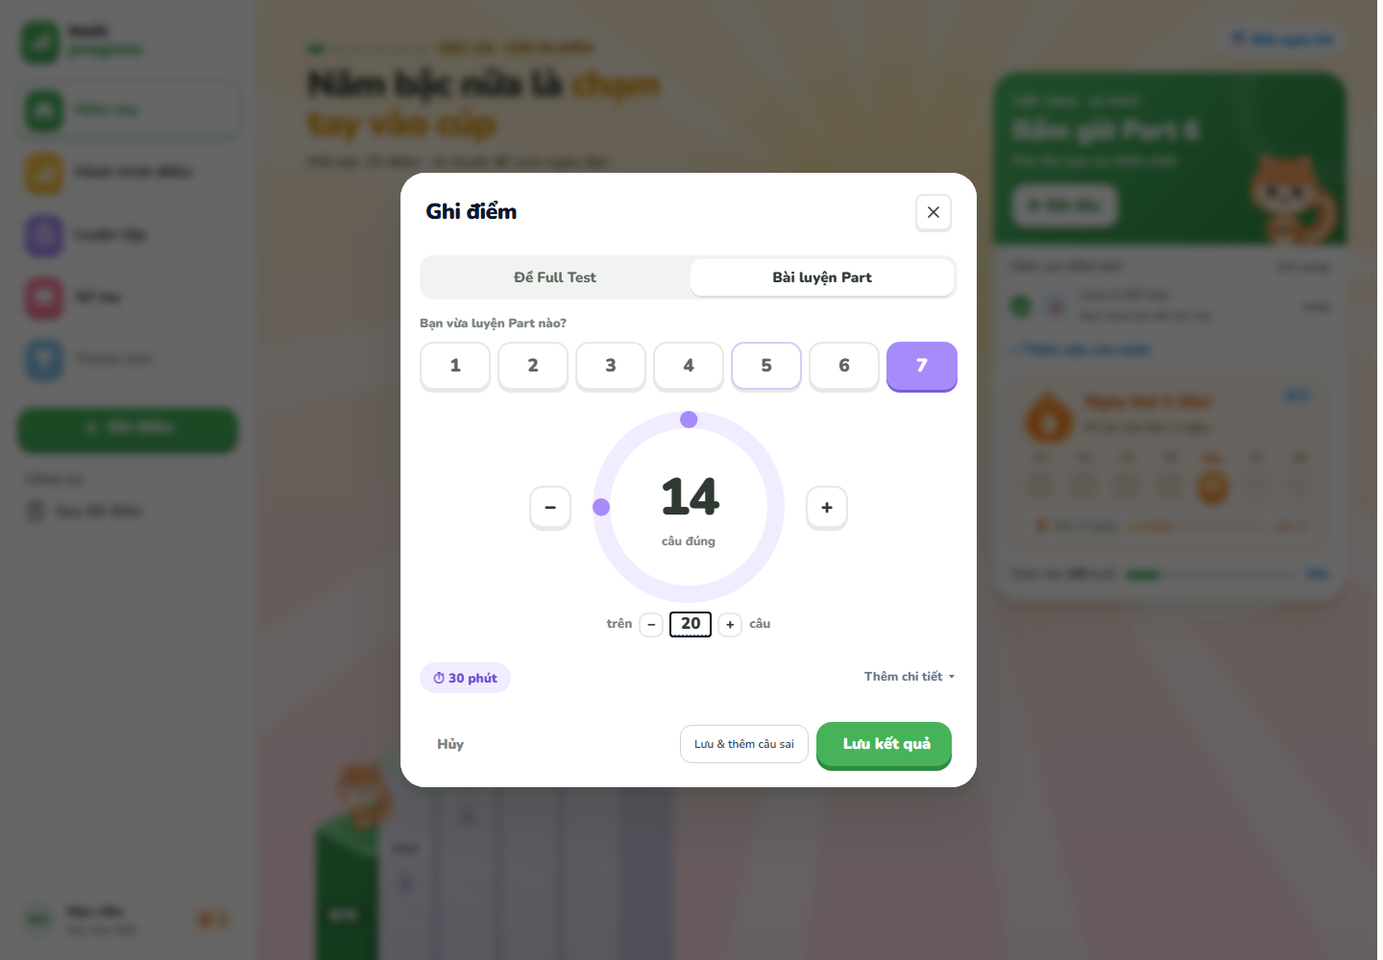
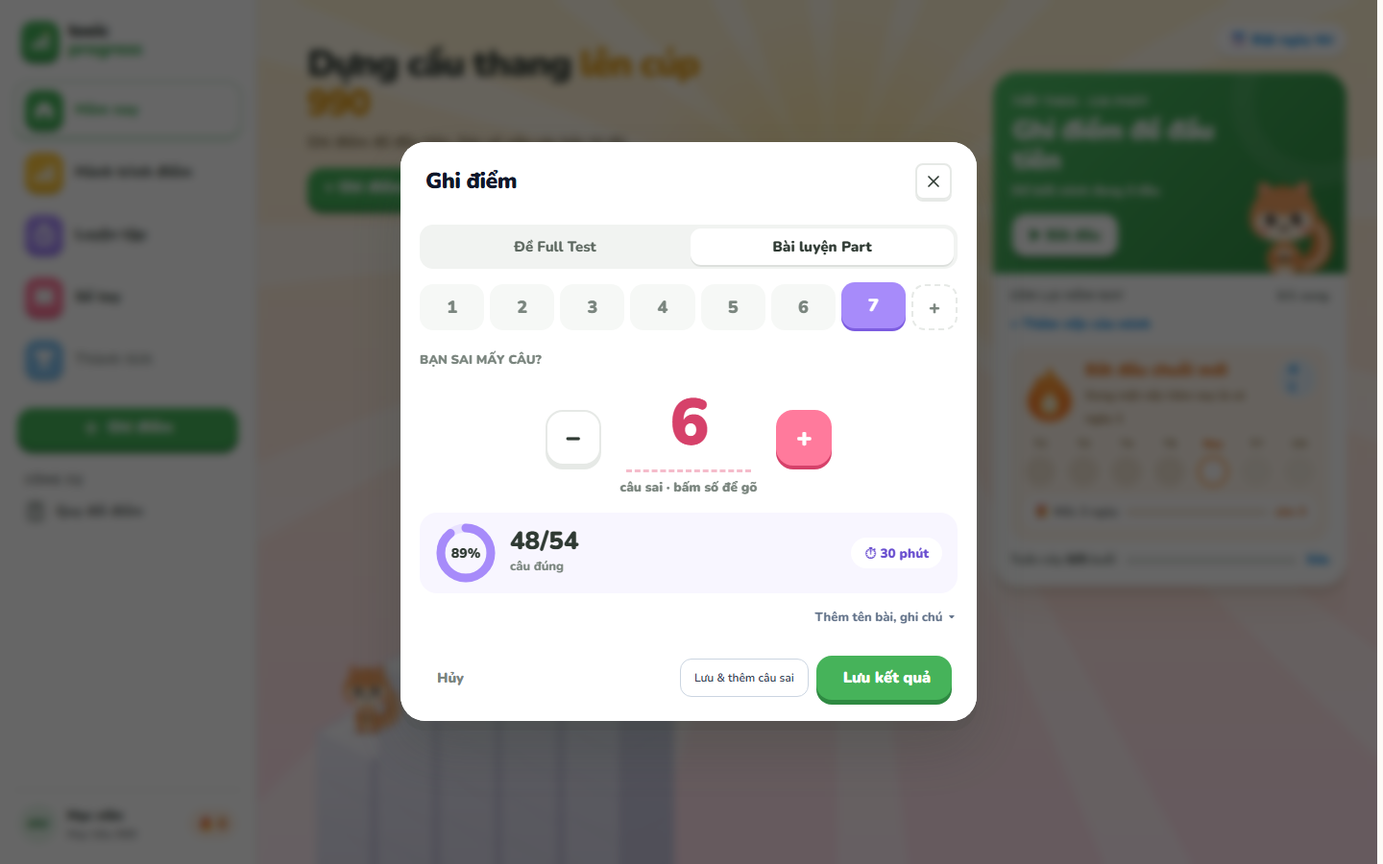
Count wrong answers for Part practice, with each Part's size fixed
Approved in design/previews/mock-log-part.html (option 1). Tapping a Part now
switches to it instead of adding it; a separate '+' adds another Part to the
same session. The total is the Part's full size (P1 6 … P7 54), so the learner
only counts mistakes: big −/+ or type the number, defaulting to none wrong on
computers. One strip shows correct/total, the percentage and the time.

diff --git a/design/previews/mock-log-part.html b/design/previews/mock-log-part.html
@@ -1,0 +1,109 @@
+<!doctype html>
+<html lang="vi"><head><meta charset="utf-8">
+<link href="https://fonts.googleapis.com/css2?family=Nunito:wght@600;700;800;900&display=swap" rel="stylesheet">
+<link rel="stylesheet" href="_soc.css">
+<style>
+:root{--g:#46b35a;--gd:#2f8a42;--ink:#2f3a33;--mut:#7a857e;--line:#e6e9e6;--blue:#1c8fe3;--pink:#ff7a9c;--pinkd:#d6416a;--pinkl:#ffe1e9;--vio:#a78bfa;--viod:#7c5ce0;--viol:#f1ecff}
+*{box-sizing:border-box;margin:0;padding:0}
+body{font-family:'Nunito',sans-serif;color:var(--ink);background:#eef0ee;padding:36px 40px}
+h1{font-weight:900;font-size:30px;letter-spacing:-1px}
+.lead{font-weight:700;font-size:15px;color:var(--mut);margin-top:4px;max-width:1200px}
+.cols{display:grid;grid-template-columns:repeat(3,440px);gap:36px;margin-top:24px}
+.ttl{display:flex;align-items:center;gap:10px;font-weight:900;font-size:19px;margin-bottom:12px}
+.ttl i{font-style:normal;width:30px;height:30px;border-radius:50%;background:var(--ink);color:#fff;display:grid;place-items:center;font-size:15px}
+.ttl small{font-weight:700;font-size:13px;color:var(--mut)}
+.m{background:#fff;border-radius:26px;padding:20px 22px;box-shadow:0 8px 0 rgba(47,58,51,.07);height:600px;display:flex;flex-direction:column;position:relative;overflow:hidden}
+.mh{display:flex;justify-content:space-between;align-items:center;margin-bottom:14px}.mh b{font-weight:900;font-size:21px}
+.x{width:34px;height:34px;border-radius:11px;border:2px solid var(--line);display:grid;place-items:center;font-weight:900}
+.seg{display:flex;gap:4px;background:#f1f3f1;border-radius:13px;padding:4px;margin-bottom:16px}.seg span{flex:1;text-align:center;font-weight:800;font-size:14px;color:#5c675f;padding:8px 0;border-radius:10px}.seg .on{background:#fff;color:var(--ink);font-weight:900;box-shadow:0 2px 0 rgba(47,58,51,.1)}
+.foot{margin-top:auto;display:flex;justify-content:space-between;align-items:center}
+.btn{font-weight:900;font-size:15.5px;border-radius:15px;padding:12px 20px;background:var(--g);color:#fff;box-shadow:0 5px 0 var(--gd)}
+.lnk{font-weight:900;font-size:14px;color:var(--mut)}
+/* single-select Part row with a quiet "+ Part" */
+.parts{display:flex;gap:6px;align-items:center}
+.parts span{flex:1;height:46px;border-radius:14px;background:#f6f8f6;display:grid;place-items:center;font-weight:900;font-size:17px;color:#7a857e}
+.parts span.on{background:var(--vio);color:#fff;box-shadow:0 3px 0 var(--viod);transform:translateY(-2px)}
+.parts em{font-style:normal;flex:none;width:46px;height:46px;border-radius:14px;border:2px dashed var(--line);display:grid;place-items:center;font-weight:900;color:var(--mut);font-size:13px}
+.lab{font-weight:900;font-size:12.5px;color:var(--mut);letter-spacing:.3px;margin:18px 0 8px}
+.tchips{display:flex;gap:6px}
+.tchips span{flex:1;text-align:center;border-radius:12px;padding:8px 0;font-weight:900;font-size:14px;background:#f6f8f6;color:#5c675f}
+.tchips span.on{background:var(--viol);color:var(--viod);box-shadow:inset 0 0 0 2px #d6ccfb}
+.tchips small{display:block;font-weight:800;font-size:10.5px;opacity:.8}
+.res{display:flex;align-items:center;gap:14px;margin-top:16px;background:#f8f6ff;border-radius:18px;padding:12px 16px}
+.res .r{width:64px;height:64px;flex:none}
+.res b{display:block;font-weight:900;font-size:26px;line-height:1}.res small{font-weight:800;font-size:13px;color:var(--mut)}
+.time{margin-left:auto;background:#fff;border-radius:99px;padding:6px 12px;font-weight:900;font-size:13px;color:#6a4fd0}
+/* 1: count wrong */
+.big1{display:flex;align-items:center;justify-content:center;gap:18px;margin-top:6px}
+.pm{width:56px;height:56px;border-radius:18px;background:#fff;border:2px solid var(--line);box-shadow:0 4px 0 var(--line);display:grid;place-items:center;font-weight:900;font-size:28px}
+.pm.p{background:var(--pink);border-color:var(--pink);color:#fff;box-shadow:0 4px 0 var(--pinkd)}
+.num1{text-align:center;min-width:110px}
+.num1 b{display:block;font-weight:900;font-size:68px;letter-spacing:-2px;line-height:1;color:var(--pinkd)}
+.num1 small{font-weight:900;font-size:14px;color:var(--mut)}
+.num1 b{border-bottom:3px dashed #f5bccb;padding-bottom:2px}
+/* 2: slider */
+.sl{position:relative;margin:34px 6px 0;height:46px}
+.sl .tr{position:absolute;left:0;right:0;top:24px;height:12px;border-radius:99px;background:var(--viol)}
+.sl .fl{position:absolute;left:0;top:24px;height:12px;border-radius:99px;background:var(--vio);width:70%}
+.sl .th{position:absolute;left:70%;top:14px;width:32px;height:32px;margin-left:-16px;border-radius:50%;background:#fff;border:4px solid var(--vio);box-shadow:0 3px 0 var(--viod)}
+.sl .bub{position:absolute;left:70%;top:-30px;transform:translateX(-50%);background:var(--ink);color:#fff;border-radius:12px;padding:4px 10px;font-weight:900;font-size:18px;white-space:nowrap}
+.sl .bub::after{content:'';position:absolute;left:50%;bottom:-5px;margin-left:-5px;border:5px solid transparent;border-top-color:var(--ink);border-bottom:0}
+.ticks{display:flex;justify-content:space-between;margin:0 6px;font-weight:800;font-size:11.5px;color:#a3aba5;padding:0 2px}
+.keys{display:flex;justify-content:center;gap:8px;margin-top:12px}
+.keys span{border-radius:12px;padding:7px 14px;font-weight:900;font-size:14px;background:#fff;border:2px solid var(--line);box-shadow:0 3px 0 var(--line)}
+/* 3: tap wrong questions */
+.qd{display:grid;grid-template-columns:repeat(10,1fr);gap:6px}
+.qd i{aspect-ratio:1;border-radius:10px;background:#f6f8f6;display:grid;place-items:center;font-style:normal;font-weight:900;font-size:12.5px;color:#9aa39c}
+.qd i.w{background:var(--pink);color:#fff;box-shadow:0 2px 0 var(--pinkd)}
+.from{display:flex;gap:6px;align-items:center;font-weight:800;font-size:13px;color:var(--mut)}
+.from b{background:#f6f8f6;border-radius:9px;padding:3px 10px;color:var(--ink);font-weight:900}
+.ann{position:absolute;right:16px;top:14px;transform:rotate(3deg);background:#fff6d6;color:#7a5a00;border-radius:10px;padding:5px 9px;font-weight:900;font-size:12px}
+</style></head>
+<body>
+<h1>Bài luyện Part · 3 hướng dễ thao tác hơn</h1>
+<div class="lead">Chung cho cả 3: bấm một Part là chọn Part đó (không còn kiểu thêm/bỏ), muốn ghi thêm Part thì bấm "+". Tổng số câu chọn bằng chip quen thuộc thay cho nút −/+ nhỏ. Kết quả, % đúng và thời gian gom vào một dải ở dưới.</div>
+<div class="cols">
+
+<div><div class="ttl"><i>1</i>Đếm câu sai<small>sai thường ít hơn đúng, bấm ít hơn</small></div>
+ <div class="m"><div class="mh"><b>Ghi điểm</b><div class="x">×</div></div>
+  <div class="seg"><span>Đề Full Test</span><span class="on">Bài luyện Part</span></div>
+  <div class="parts"><span>1</span><span>2</span><span>3</span><span>4</span><span>5</span><span>6</span><span class="on">7</span><em>+</em></div>
+  <div class="lab">BẠN SAI MẤY CÂU?</div>
+  <div class="big1"><span class="pm">−</span><div class="num1"><b>6</b><small>câu sai · bấm số để gõ</small></div><span class="pm p">+</span></div>
+  <div class="lab">TRÊN TỔNG</div>
+  <div class="tchips"><span>10</span><span class="on">20</span><span>30</span><span>54<small>cả Part</small></span><span>Khác</span></div>
+  <div class="res"><svg class="r" viewBox="0 0 64 64"><circle cx="32" cy="32" r="26" fill="none" stroke="#e9e2ff" stroke-width="9"/><circle cx="32" cy="32" r="26" fill="none" stroke="#a78bfa" stroke-width="9" stroke-linecap="round" stroke-dasharray="114.4 163.4" transform="rotate(-90 32 32)"/><text x="32" y="37" text-anchor="middle" font-weight="900" font-size="14" fill="#2f3a33">70%</text></svg>
+   <div><b>14/20</b><small>câu đúng</small></div><span class="time">⏱ 22 phút</span></div>
+  <div class="foot"><span class="lnk">Thêm ghi chú</span><span class="btn">Lưu bài luyện</span></div></div></div>
+
+<div><div class="ttl"><i>2</i>Thanh kéo<small>kéo một lần là xong, có phím tắt</small></div>
+ <div class="m"><div class="mh"><b>Ghi điểm</b><div class="x">×</div></div>
+  <div class="seg"><span>Đề Full Test</span><span class="on">Bài luyện Part</span></div>
+  <div class="parts"><span>1</span><span>2</span><span>3</span><span>4</span><span>5</span><span>6</span><span class="on">7</span><em>+</em></div>
+  <div class="lab">TRÊN TỔNG</div>
+  <div class="tchips"><span>10</span><span class="on">20</span><span>30</span><span>54<small>cả Part</small></span><span>Khác</span></div>
+  <div class="lab" style="margin-top:22px">KÉO TỚI SỐ CÂU ĐÚNG</div>
+  <div class="sl"><div class="tr"></div><div class="fl"></div><div class="th"></div><div class="bub">14 đúng</div></div>
+  <div class="keys"><span>−1</span><span>+1</span><span style="color:var(--mut)">← → trên bàn phím</span></div>
+  <div class="res"><svg class="r" viewBox="0 0 64 64"><circle cx="32" cy="32" r="26" fill="none" stroke="#e9e2ff" stroke-width="9"/><circle cx="32" cy="32" r="26" fill="none" stroke="#a78bfa" stroke-width="9" stroke-linecap="round" stroke-dasharray="114.4 163.4" transform="rotate(-90 32 32)"/><text x="32" y="37" text-anchor="middle" font-weight="900" font-size="14" fill="#2f3a33">70%</text></svg>
+   <div><b>14/20</b><small>câu đúng</small></div><span class="time">⏱ 22 phút</span></div>
+  <div class="foot"><span class="lnk">Thêm ghi chú</span><span class="btn">Lưu bài luyện</span></div></div></div>
+
+<div><div class="ttl"><i>3</i>Bấm câu sai<small>biết luôn câu nào sai, đưa vào Sổ tay</small></div>
+ <div class="m"><div class="mh"><b>Ghi điểm</b><div class="x">×</div></div>
+  <div class="seg"><span>Đề Full Test</span><span class="on">Bài luyện Part</span></div>
+  <div class="parts"><span>1</span><span>2</span><span>3</span><span>4</span><span>5</span><span>6</span><span class="on">7</span><em>+</em></div>
+  <div class="lab">TRÊN TỔNG</div>
+  <div class="tchips"><span>10</span><span class="on">20</span><span>30</span><span>54<small>cả Part</small></span><span>Khác</span></div>
+  <div class="lab" style="display:flex;justify-content:space-between">BẤM CÂU BẠN LÀM SAI<span class="from">bắt đầu từ câu <b>147</b></span></div>
+  <div class="qd" id="qd"></div>
+  <div class="res"><svg class="r" viewBox="0 0 64 64"><circle cx="32" cy="32" r="26" fill="none" stroke="#e9e2ff" stroke-width="9"/><circle cx="32" cy="32" r="26" fill="none" stroke="#a78bfa" stroke-width="9" stroke-linecap="round" stroke-dasharray="114.4 163.4" transform="rotate(-90 32 32)"/><text x="32" y="37" text-anchor="middle" font-weight="900" font-size="14" fill="#2f3a33">70%</text></svg>
+   <div><b>14/20</b><small>câu đúng</small></div><span class="time">⏱ 22 phút</span></div>
+  <div class="foot"><span class="lnk">Thêm ghi chú</span><span class="btn">Lưu bài luyện</span></div></div></div>
+
+</div>
+<script>
+const W=[3,6,10,13,16,19];
+document.getElementById('qd').innerHTML=Array.from({length:20},(_,k)=>`<i class="${W.includes(k+1)?'w':''}">${147+k}</i>`).join('');
+</script>
+</body></html>

diff --git a/frontend/src/features/study-sessions/components/DesktopPracticeBody.tsx b/frontend/src/features/study-sessions/components/DesktopPracticeBody.tsx
@@ -25,78 +25,84 @@ export const DesktopPracticeBody = ({ rows, setRows, testName, setTestName, sugg
   const [detailOpen, setDetailOpen] = useState(initialDetailOpen);
   const used = new Set(rows.map(r => r.part));
 
+  // A Part's question count is fixed (P1 6 … P7 54); learners count what they got wrong, usually the smaller number.
+  const fullSize = (part: Part) => PART_MAX_QUESTIONS[`part${part}` as keyof typeof PART_MAX_QUESTIONS];
+  const [adding, setAdding] = useState(false);
   const removePart = (part: Part) => setRows(prev => prev.length <= 1 ? prev : prev.filter(row => row.part !== part));
-  const addPart = (part: Part) => {
-    if (used.has(part)) { removePart(part); return; }
-    setRows(prev => [...prev, { part, correct: 0, total: PART_MAX_QUESTIONS[`part${part}` as keyof typeof PART_MAX_QUESTIONS] }]);
+  const pickPart = (part: Part) => {
+    if (adding) {
+      setAdding(false);
+      if (!used.has(part)) setRows(prev => [...prev, { part, correct: fullSize(part), total: fullSize(part) }]);
+      return;
+    }
+    if (rows.length === 1 && rows[0].part === part) return;
+    setRows([{ part, correct: fullSize(part), total: fullSize(part) }]);
   };
-  const patch = (index: number, change: (row: PracticePartResult) => Partial<PracticePartResult>) =>
-    setRows(prev => prev.map((row, i) => {
-      if (i !== index) return row;
-      const next = { ...row, ...change(row) };
-      next.total = Math.max(1, Math.round(next.total) || 1);
-      next.correct = Math.min(next.total, Math.max(0, Math.round(next.correct) || 0));
-      return next;
-    }));
+  const setWrong = (index: number, wrong: number) =>
+    setRows(prev => prev.map((row, i) => i !== index ? row : { ...row, correct: row.total - Math.min(row.total, Math.max(0, Math.round(wrong) || 0)) }));
 
-  const ring = (row: PracticePartResult, index: number, big: boolean) => {
-    const size = big ? 200 : 150, stroke = big ? 18 : 14, r = (size - stroke) / 2, c = 2 * Math.PI * r;
-    const share = row.total > 0 ? row.correct / row.total : 0;
+  const counter = (row: PracticePartResult, index: number, single: boolean) => {
+    const wrong = row.total - row.correct;
     return (
-      <div key={row.part} className={'rdp-card' + (big ? ' is-big' : '')}>
-        {!big && <div className="rdp-cardh"><b>Part {row.part}</b>
-          {rows.length > 1 && <button type="button" className="rdp-x" aria-label={`Bỏ Part ${row.part}`} title={`Bỏ Part ${row.part}`} onClick={() => removePart(row.part)}>×</button>}</div>}
-        <div className="rdp-dial">
-          <button type="button" className="rdp-pm" aria-label={`Giảm số câu đúng Part ${row.part}`} onClick={() => patch(index, r0 => ({ correct: r0.correct - 1 }))}>−</button>
-          <div className="rdp-ring" style={{ width: size, height: size }}>
-            <svg viewBox={`0 0 ${size} ${size}`} width={size} height={size} aria-hidden="true">
-              <circle cx={size / 2} cy={size / 2} r={r} fill="none" stroke="#f1ecff" strokeWidth={stroke} />
-              <circle cx={size / 2} cy={size / 2} r={r} fill="none" stroke={share >= 0.5 ? '#a78bfa' : '#b9a5fc'} strokeWidth={stroke} strokeLinecap="round" opacity={share > 0 ? 1 : 0}
-                strokeDasharray={`${Math.max(0.001, share) * c} ${c}`} transform={`rotate(-90 ${size / 2} ${size / 2})`} style={{ transition: 'stroke-dasharray .3s' }} />
-            </svg>
-            <div className="rdp-c">
-              <input type="number" min={0} max={row.total} step={1} inputMode="numeric" aria-label={`Số câu đúng Part ${row.part}`}
-                value={row.correct} onChange={e => patch(index, () => ({ correct: Number(e.target.value) }))} onFocus={e => e.target.select()}
-                className={NO_SPIN} />
-              <small>câu đúng</small>
-            </div>
+      <div key={row.part} className={'rdw-card' + (single ? ' is-single' : '')}>
+        {!single && (
+          <div className="rdw-cardh"><b>Part {row.part}</b>
+            <button type="button" className="rdp-x" aria-label={`Bỏ Part ${row.part}`} title={`Bỏ Part ${row.part}`} onClick={() => removePart(row.part)}>×</button>
           </div>
-          <button type="button" className="rdp-pm" aria-label={`Tăng số câu đúng Part ${row.part}`} onClick={() => patch(index, r0 => ({ correct: r0.correct + 1 }))}>+</button>
-        </div>
-        <div className="rdp-tot">trên
-          <button type="button" aria-label={`Giảm tổng số câu Part ${row.part}`} onClick={() => patch(index, r0 => ({ total: r0.total - 1 }))}>−</button>
-          <input type="number" min={1} step={1} inputMode="numeric" aria-label={`Tổng số câu Part ${row.part}`} value={row.total}
-            onChange={e => patch(index, () => ({ total: Number(e.target.value) }))} onFocus={e => e.target.select()} className={NO_SPIN} />
-          <button type="button" aria-label={`Tăng tổng số câu Part ${row.part}`} onClick={() => patch(index, r0 => ({ total: r0.total + 1 }))}>+</button>
-          câu
+        )}
+        {single && <div className="rdp-lbl">BẠN SAI MẤY CÂU?</div>}
+        <div className="rdw-dial">
+          <button type="button" className="rdw-pm" aria-label={`Bớt một câu sai Part ${row.part}`} disabled={wrong <= 0} onClick={() => setWrong(index, wrong - 1)}>−</button>
+          <label className="rdw-num">
+            <input type="number" min={0} max={row.total} step={1} inputMode="numeric" aria-label={`Số câu sai Part ${row.part}`}
+              value={wrong} onChange={e => setWrong(index, Number(e.target.value))} onFocus={e => e.target.select()} className={NO_SPIN} />
+            <small>câu sai · bấm số để gõ</small>
+          </label>
+          <button type="button" className="rdw-pm is-plus" aria-label={`Thêm một câu sai Part ${row.part}`} disabled={wrong >= row.total} onClick={() => setWrong(index, wrong + 1)}>+</button>
         </div>
       </div>
     );
   };
 
+  const correct = rows.reduce((sum, row) => sum + row.correct, 0);
+  const total = rows.reduce((sum, row) => sum + row.total, 0);
+  const share = total ? correct / total : 0;
+  const rc = 2 * Math.PI * 26;
+
   return (
     <div className="rdp space-y-4">
-      <div>
-        <div className="rdp-lbl">Bạn vừa luyện Part nào?</div>
-        <div role="group" aria-label="Part đã luyện" className="rdp-tiles">
-          {PARTS.map(p => {
-            const isUsed = used.has(p);
-            return (
-              <button key={p} type="button" aria-label={isUsed ? `Part ${p} đã chọn, bấm để bỏ` : `Thêm Part ${p}`} aria-pressed={isUsed} onClick={() => addPart(p)}
-                className={isUsed ? 'is-on' : undefined}>{p}</button>
-            );
-          })}
-        </div>
+      <div role="group" aria-label="Part đã luyện" className={'rdw-parts' + (adding ? ' is-adding' : '')}>
+        {PARTS.map(p => {
+          const isUsed = used.has(p);
+          return (
+            <button key={p} type="button" aria-pressed={isUsed} onClick={() => pickPart(p)} disabled={adding && isUsed}
+              aria-label={adding ? `Thêm Part ${p}` : `Part ${p}`} className={isUsed ? 'is-on' : undefined}>{p}</button>
+          );
+        })}
+        <button type="button" className={'rdw-add' + (adding ? ' is-on' : '')} aria-pressed={adding} onClick={() => setAdding(a => !a)}
+          title={adding ? 'Huỷ thêm Part' : 'Ghi thêm một Part trong cùng buổi'} aria-label={adding ? 'Huỷ thêm Part' : 'Thêm Part khác'}>{adding ? '×' : '+'}</button>
       </div>
+      {adding && <p className="rdw-hint">Chọn Part muốn ghi thêm</p>}
 
       <div className={rows.length > 1 ? 'rdp-grid' : undefined}>
-        {rows.map((row, index) => ring(row, index, rows.length === 1))}
+        {rows.map((row, index) => counter(row, index, rows.length === 1))}
+      </div>
+
+      <div className="rdw-res">
+        <svg viewBox="0 0 64 64" width="64" height="64" aria-hidden="true">
+          <circle cx="32" cy="32" r="26" fill="none" stroke="#e9e2ff" strokeWidth="9" />
+          <circle cx="32" cy="32" r="26" fill="none" stroke="#a78bfa" strokeWidth="9" strokeLinecap="round" opacity={share > 0 ? 1 : 0}
+            strokeDasharray={`${share * rc} ${rc}`} transform="rotate(-90 32 32)" />
+          <text x="32" y="37" textAnchor="middle" fontWeight="900" fontSize="14" fill="#2f3a33">{Math.round(share * 100)}%</text>
+        </svg>
+        <div><b>{correct}/{total}</b><small>câu đúng</small></div>
+        <button type="button" className="rdp-time" onClick={() => setDetailOpen(true)}>⏱ {Math.round(duration)} phút</button>
       </div>
 
       <div className="flex items-center justify-between text-[13px] font-extrabold">
-        <button type="button" className="rdp-time" onClick={() => setDetailOpen(true)}>⏱ {Math.round(duration)} phút</button>
+        <span />
         <button type="button" aria-expanded={detailOpen} onClick={() => setDetailOpen(o => !o)} className="cursor-pointer text-slate-500 hover:text-slate-900 dark:text-slate-400 dark:hover:text-white">
-          Thêm chi tiết {detailOpen ? '▴' : '▾'}
+          {detailOpen ? 'Ẩn chi tiết ▴' : 'Thêm tên bài, ghi chú ▾'}
         </button>
       </div>
 

diff --git a/frontend/src/features/study-sessions/components/logger-rd.css b/frontend/src/features/study-sessions/components/logger-rd.css
@@ -143,3 +143,38 @@
 .rdp-tot button { width: 26px; height: 26px; border-radius: 9px; border: 2px solid var(--rd-line); background: #fff; font: 900 15px var(--rd-font); color: var(--rd-ink); cursor: pointer; line-height: 1; padding: 0; }
 .rdp-tot input { width: 42px; border: 0 !important; border-bottom: 2px dotted #c3c8c3 !important; border-radius: 0 !important; background: none; text-align: center; font: 900 17px var(--rd-font); color: var(--rd-ink); padding: 0; }
 .rdp-time { border: 0; background: #f1ecff; color: #6a4fd0; border-radius: 99px; padding: 6px 14px; font: 900 13.5px var(--rd-font); cursor: pointer; }
+
+/* ---- Bài luyện Part v2 (mock-log-part.html, hướng 1; fixed Part size) ---- */
+.rdw-parts { display: flex; gap: 6px; }
+.rdw-parts button { flex: 1; height: 48px; border: 0; border-radius: 14px; background: #f6f8f6; font: 900 18px var(--rd-font); color: #7a857e; cursor: pointer; transition: transform .1s, background .15s; }
+.rdw-parts button:hover:not(:disabled) { background: #efeaff; color: var(--rd-violet-d); }
+.rdw-parts button.is-on { background: var(--rd-violet); color: #fff; box-shadow: 0 3px 0 var(--rd-violet-d); transform: translateY(-2px); }
+.rdw-parts.is-adding button:not(.is-on):not(.rdw-add) { box-shadow: inset 0 0 0 2px #d6ccfb; background: #fff; }
+.rdw-parts button:disabled { cursor: default; }
+.rdw-parts .rdw-add { flex: none; width: 48px; background: #fff; border: 2px dashed var(--rd-line); color: var(--rd-mut); font-size: 20px; }
+.rdw-parts .rdw-add.is-on { border-style: solid; color: var(--rd-pink-d); }
+.rdw-parts button:focus-visible { outline: 3px solid var(--rd-blue); outline-offset: 2px; }
+.rdw-hint { font-weight: 800; font-size: 13px; color: var(--rd-violet-d); margin-top: -6px !important; }
+.rdw-card.is-single { padding-top: 6px; }
+.rdp-grid .rdw-card { background: #f8f6ff; border-radius: 20px; padding: 10px 12px 14px; }
+.rdw-cardh { display: flex; align-items: center; justify-content: space-between; padding-bottom: 4px; }
+.rdw-cardh b { font-weight: 900; font-size: 15px; color: var(--rd-violet-d); }
+.rdw-dial { display: flex; align-items: center; justify-content: center; gap: 20px; }
+.rdp-grid .rdw-dial { gap: 10px; }
+.rdw-pm { width: 58px; height: 58px; border-radius: 18px; border: 2px solid var(--rd-line); background: #fff; box-shadow: 0 4px 0 var(--rd-line); font: 900 28px var(--rd-font); color: var(--rd-ink); cursor: pointer; flex: none; }
+.rdw-pm.is-plus { background: var(--rd-pink); border-color: var(--rd-pink); color: #fff; box-shadow: 0 4px 0 var(--rd-pink-d); }
+.rdw-pm:active:not(:disabled) { transform: translateY(3px); box-shadow: 0 1px 0 var(--rd-line); }
+.rdw-pm.is-plus:active:not(:disabled) { box-shadow: 0 1px 0 var(--rd-pink-d); }
+.rdw-pm:disabled { opacity: .4; cursor: default; }
+.rdp-grid .rdw-pm { width: 44px; height: 44px; font-size: 22px; border-radius: 14px; }
+.rdw-num { display: flex; flex-direction: column; align-items: center; cursor: text; }
+.rdw-num input { width: 130px; border: 0 !important; border-bottom: 3px dashed #f5bccb !important; border-radius: 0 !important; background: none; text-align: center; font: 900 68px/1 var(--rd-font); letter-spacing: -2px; color: var(--rd-pink-d); padding: 0 0 2px; }
+.rdp-grid .rdw-num input { width: 80px; font-size: 44px; }
+.rdw-num input:focus { outline: none; border-bottom-style: solid !important; border-bottom-color: var(--rd-pink) !important; }
+.rdw-num small { font-weight: 900; font-size: 13.5px; color: var(--rd-mut); margin-top: 6px; }
+.rdp-grid .rdw-num small { font-size: 12px; }
+.rdw-res { display: flex; align-items: center; gap: 14px; background: #f8f6ff; border-radius: 18px; padding: 10px 16px; }
+.rdw-res svg { flex: none; }
+.rdw-res b { display: block; font-weight: 900; font-size: 26px; line-height: 1; }
+.rdw-res small { font-weight: 800; font-size: 13px; color: var(--rd-mut); }
+.rdw-res .rdp-time { margin-left: auto; background: #fff; }

diff --git a/frontend/src/features/study-sessions/components/SessionLoggerModal.tsx b/frontend/src/features/study-sessions/components/SessionLoggerModal.tsx
@@ -309,7 +309,7 @@ export const SessionLoggerModal: React.FC<SessionLoggerModalProps> = ({
     setPendingInitialFiles(prefill?.initialFiles?.length ? prefill.initialFiles : undefined);
     const requestedPart = prefill?.partNumber;
     const part = typeof requestedPart === 'number' && Number.isInteger(requestedPart) && requestedPart >= 1 && requestedPart <= 7 ? requestedPart as PracticePartResult['part'] : 5;
-    setPracticeRows(parts.length > 0 ? parts.map(p => ({ ...p })) : [{ part, correct: 0, total: PART_MAX_QUESTIONS[`part${part}`] }]);
+    setPracticeRows(parts.length > 0 ? parts.map(p => ({ ...p })) : [{ part, correct: isPhone ? 0 : PART_MAX_QUESTIONS[`part${part}`], total: PART_MAX_QUESTIONS[`part${part}`] }]);
   }, [isOpen, editingSession, prefill?.durationMinutes, prefill?.sessionType, prefill?.partNumber, prefill?.markWrong, prefill?.initialFiles, resetNonce]);
 
   // Switching tabs swaps the untouched default duration (Full Test 120, Part practice 30); a typed value stays.
